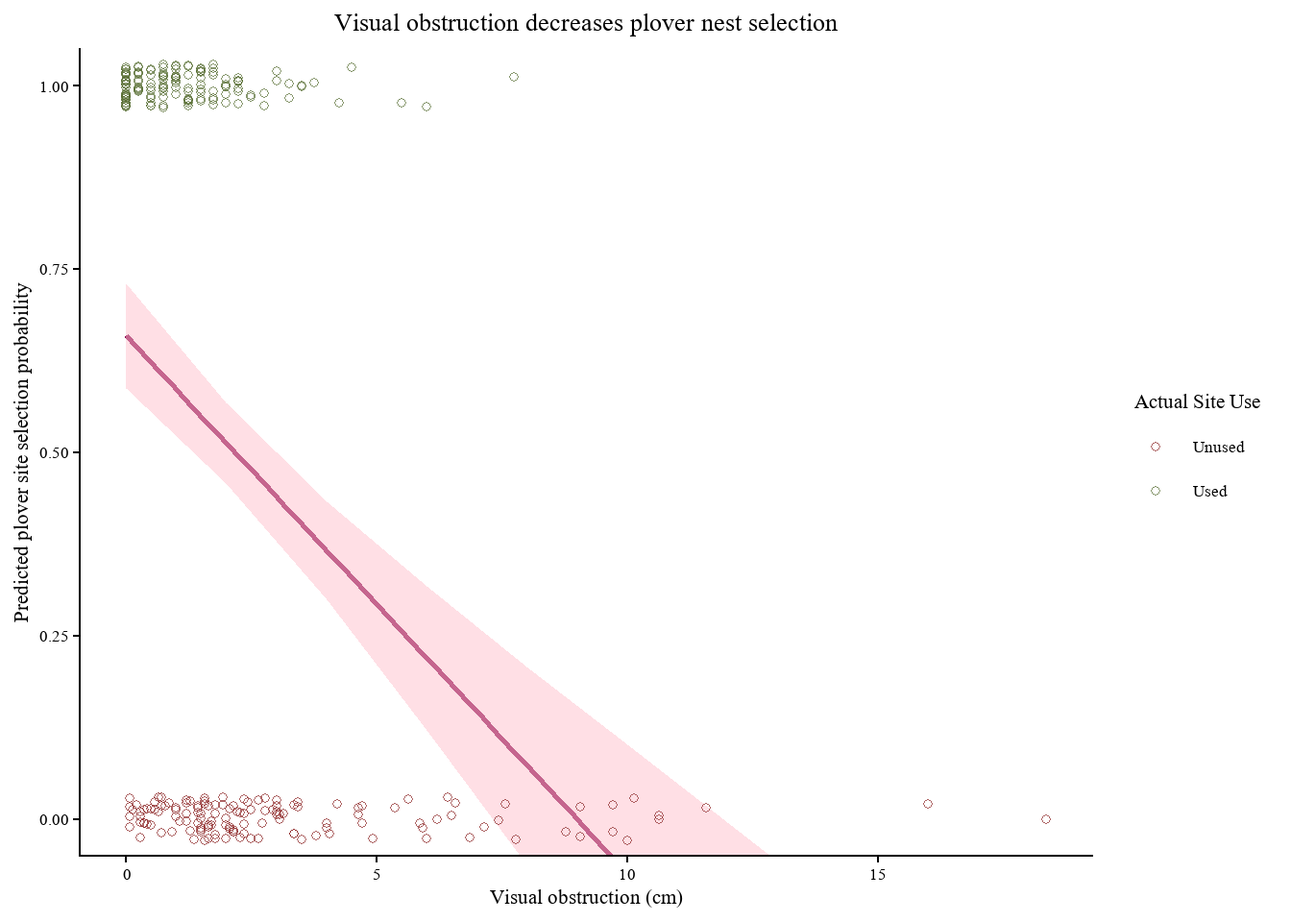
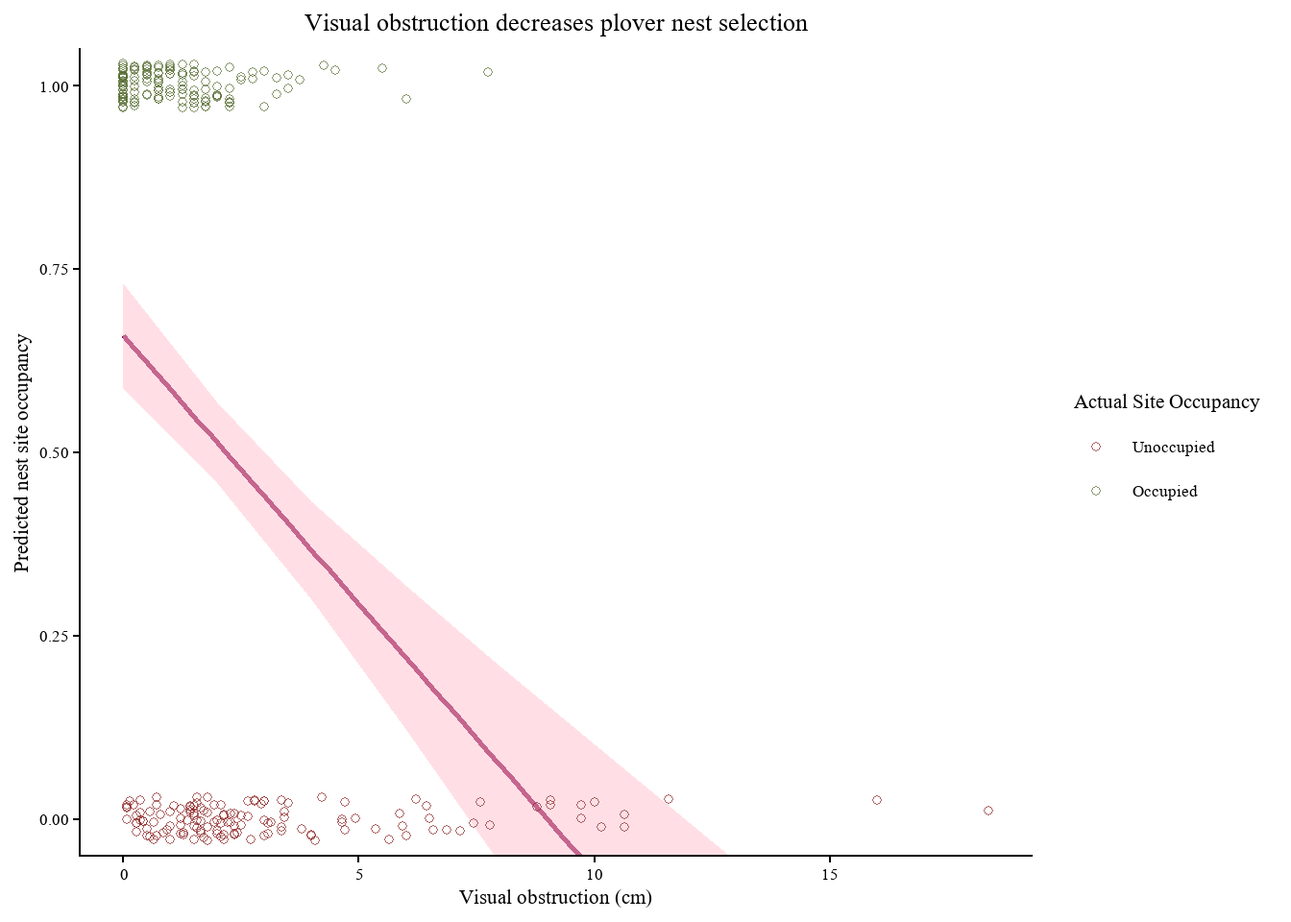
added interpretation of results

diff --git a/code/193ds-code.html b/code/193ds-code.html
@@ -72,6 +72,10 @@ pre > code.sourceCode > span > a:first-child::before { text-decoration: underlin
 <script src="193ds-code_files/libs/bootstrap/bootstrap.min.js"></script>
 <link href="193ds-code_files/libs/bootstrap/bootstrap-icons.css" rel="stylesheet">
 <link href="193ds-code_files/libs/bootstrap/bootstrap-9e3ffae467580fdb927a41352e75a2e0.min.css" rel="stylesheet" append-hash="true" id="quarto-bootstrap" data-mode="light">
+<link href="193ds-code_files/libs/tabwid-1.1.3/tabwid.css" rel="stylesheet">
+
+<script src="193ds-code_files/libs/tabwid-1.1.3/tabwid.js"></script>
+
 
   <script src="https://cdnjs.cloudflare.com/polyfill/v3/polyfill.min.js?features=es6"></script>
   <script src="https://cdn.jsdelivr.net/npm/mathjax@3/es5/tex-chtml-full.js" type="text/javascript"></script>
@@ -155,16 +159,17 @@ window.Quarto = {
 <span id="cb1-8"><a href="#cb1-8" aria-hidden="true" tabindex="-1"></a><span class="fu">library</span>(lterdatasampler) <span class="co"># dataset from LTER</span></span>
 <span id="cb1-9"><a href="#cb1-9" aria-hidden="true" tabindex="-1"></a><span class="fu">library</span>(extrafont) <span class="co"># adds more fonts</span></span>
 <span id="cb1-10"><a href="#cb1-10" aria-hidden="true" tabindex="-1"></a><span class="fu">library</span>(showtext) <span class="co"># allow changing font</span></span>
-<span id="cb1-11"><a href="#cb1-11" aria-hidden="true" tabindex="-1"></a></span>
-<span id="cb1-12"><a href="#cb1-12" aria-hidden="true" tabindex="-1"></a>kelp <span class="ot">&lt;-</span> <span class="fu">read.csv</span>(</span>
-<span id="cb1-13"><a href="#cb1-13" aria-hidden="true" tabindex="-1"></a>  <span class="fu">here</span>(<span class="st">"data"</span>,</span>
-<span id="cb1-14"><a href="#cb1-14" aria-hidden="true" tabindex="-1"></a>       <span class="st">"Annual_Kelp_All_Years_20250903.csv"</span>)</span>
-<span id="cb1-15"><a href="#cb1-15" aria-hidden="true" tabindex="-1"></a>) <span class="co"># creating kelp dataframe</span></span>
-<span id="cb1-16"><a href="#cb1-16" aria-hidden="true" tabindex="-1"></a></span>
-<span id="cb1-17"><a href="#cb1-17" aria-hidden="true" tabindex="-1"></a>mopl <span class="ot">&lt;-</span> <span class="fu">read.csv</span>(</span>
-<span id="cb1-18"><a href="#cb1-18" aria-hidden="true" tabindex="-1"></a>  <span class="fu">here</span>(<span class="st">"data"</span>,</span>
-<span id="cb1-19"><a href="#cb1-19" aria-hidden="true" tabindex="-1"></a>       <span class="st">"MOPL_nest-site_selection_Duchardt_et_al._2019.csv"</span>)</span>
-<span id="cb1-20"><a href="#cb1-20" aria-hidden="true" tabindex="-1"></a>)</span></code></pre></div><button title="Copy to Clipboard" class="code-copy-button"><i class="bi"></i></button></div>
+<span id="cb1-11"><a href="#cb1-11" aria-hidden="true" tabindex="-1"></a><span class="fu">library</span>(flextable) <span class="co"># add flextable</span></span>
+<span id="cb1-12"><a href="#cb1-12" aria-hidden="true" tabindex="-1"></a></span>
+<span id="cb1-13"><a href="#cb1-13" aria-hidden="true" tabindex="-1"></a>kelp <span class="ot">&lt;-</span> <span class="fu">read.csv</span>(</span>
+<span id="cb1-14"><a href="#cb1-14" aria-hidden="true" tabindex="-1"></a>  <span class="fu">here</span>(<span class="st">"data"</span>,</span>
+<span id="cb1-15"><a href="#cb1-15" aria-hidden="true" tabindex="-1"></a>       <span class="st">"Annual_Kelp_All_Years_20250903.csv"</span>)</span>
+<span id="cb1-16"><a href="#cb1-16" aria-hidden="true" tabindex="-1"></a>) <span class="co"># creating kelp dataframe</span></span>
+<span id="cb1-17"><a href="#cb1-17" aria-hidden="true" tabindex="-1"></a></span>
+<span id="cb1-18"><a href="#cb1-18" aria-hidden="true" tabindex="-1"></a>mopl <span class="ot">&lt;-</span> <span class="fu">read.csv</span>(</span>
+<span id="cb1-19"><a href="#cb1-19" aria-hidden="true" tabindex="-1"></a>  <span class="fu">here</span>(<span class="st">"data"</span>,</span>
+<span id="cb1-20"><a href="#cb1-20" aria-hidden="true" tabindex="-1"></a>       <span class="st">"MOPL_nest-site_selection_Duchardt_et_al._2019.csv"</span>)</span>
+<span id="cb1-21"><a href="#cb1-21" aria-hidden="true" tabindex="-1"></a>)</span></code></pre></div><button title="Copy to Clipboard" class="code-copy-button"><i class="bi"></i></button></div>
 </div>
 <p>HTML Link: <a href="https://valecarov.github.io/ENVS-193DS_winter_2026_final/code/193ds-code.html" class="uri">https://valecarov.github.io/ENVS-193DS_winter_2026_final/code/193ds-code.html</a></p>
 </section>
@@ -224,11 +229,11 @@ window.Quarto = {
 <pre><code># A tibble: 5 × 3
   site_name    year mean_fronds
   &lt;fct&gt;       &lt;int&gt;       &lt;dbl&gt;
-1 Isla Vista   2007       23.6 
-2 Isla Vista   2003        6.14
-3 Carpinteria  2004        3.67
+1 Naples       2002        3.01
+2 Carpinteria  2002        9.79
+3 Carpinteria  2018        4.21
 4 Isla Vista   2009       30.2 
-5 Carpinteria  2002        9.79</code></pre>
+5 Naples       2025        8.44</code></pre>
 </div>
 </div>
 </section>
@@ -364,7 +369,9 @@ model3  3 406.1991</code></pre>
 <h2 class="anchored" data-anchor-id="g-visualize-model-predictions">g) Visualize Model Predictions</h2>
 <div class="cell">
 <div class="code-copy-outer-scaffold"><div class="sourceCode cell-code" id="cb14"><pre class="sourceCode r code-with-copy"><code class="sourceCode r"><span id="cb14-1"><a href="#cb14-1" aria-hidden="true" tabindex="-1"></a>preds <span class="ot">&lt;-</span> <span class="fu">ggpredict</span>(model2,</span>
-<span id="cb14-2"><a href="#cb14-2" aria-hidden="true" tabindex="-1"></a>                   <span class="at">terms =</span> <span class="fu">c</span>(<span class="st">"vo_nest"</span>))</span></code></pre></div><button title="Copy to Clipboard" class="code-copy-button"><i class="bi"></i></button></div>
+<span id="cb14-2"><a href="#cb14-2" aria-hidden="true" tabindex="-1"></a>                   <span class="at">terms =</span> <span class="fu">c</span>(<span class="st">"vo_nest"</span>))</span>
+<span id="cb14-3"><a href="#cb14-3" aria-hidden="true" tabindex="-1"></a>preds_dist <span class="ot">&lt;-</span> <span class="fu">ggpredict</span>(model3,</span>
+<span id="cb14-4"><a href="#cb14-4" aria-hidden="true" tabindex="-1"></a>                        <span class="at">terms =</span> <span class="fu">c</span>(<span class="st">"edgedist"</span>))</span></code></pre></div><button title="Copy to Clipboard" class="code-copy-button"><i class="bi"></i></button></div>
 </div>
 <div class="cell">
 <div class="code-copy-outer-scaffold"><div class="sourceCode cell-code" id="cb15"><pre class="sourceCode r code-with-copy"><code class="sourceCode r"><span id="cb15-1"><a href="#cb15-1" aria-hidden="true" tabindex="-1"></a><span class="fu">ggplot</span>(<span class="at">data =</span> preds, <span class="co"># set up using predictions data frame</span></span>
@@ -390,13 +397,13 @@ model3  3 406.1991</code></pre>
 <span id="cb15-21"><a href="#cb15-21" aria-hidden="true" tabindex="-1"></a>                  <span class="at">y =</span> <span class="fu">as.numeric</span>(used_bin),<span class="co"># allow plotting of discrete variable over continuous predictions</span></span>
 <span id="cb15-22"><a href="#cb15-22" aria-hidden="true" tabindex="-1"></a>                  <span class="at">color =</span> used_bin)) <span class="sc">+</span><span class="co"># color by used vs unused site</span></span>
 <span id="cb15-23"><a href="#cb15-23" aria-hidden="true" tabindex="-1"></a>  <span class="fu">scale_color_manual</span>( </span>
-<span id="cb15-24"><a href="#cb15-24" aria-hidden="true" tabindex="-1"></a>    <span class="at">name =</span> <span class="st">"Actual Site Use"</span>,<span class="co"># name legend</span></span>
-<span id="cb15-25"><a href="#cb15-25" aria-hidden="true" tabindex="-1"></a>    <span class="at">labels =</span> <span class="fu">c</span>(<span class="st">"Unused"</span>, <span class="st">"Used"</span>),<span class="co"># change labels from 0 &amp; 1 to used and unused</span></span>
+<span id="cb15-24"><a href="#cb15-24" aria-hidden="true" tabindex="-1"></a>    <span class="at">name =</span> <span class="st">"Actual Site Occupancy"</span>,<span class="co"># name legend</span></span>
+<span id="cb15-25"><a href="#cb15-25" aria-hidden="true" tabindex="-1"></a>    <span class="at">labels =</span> <span class="fu">c</span>(<span class="st">"Unoccupied"</span>, <span class="st">"Occupied"</span>),<span class="co"># change labels from 0 &amp; 1 to unoccupied and occupied</span></span>
 <span id="cb15-26"><a href="#cb15-26" aria-hidden="true" tabindex="-1"></a>    <span class="at">values =</span> <span class="fu">c</span>(<span class="st">"brown4"</span>,<span class="st">"darkolivegreen"</span> <span class="co"># set custom colors</span></span>
 <span id="cb15-27"><a href="#cb15-27" aria-hidden="true" tabindex="-1"></a>  )) <span class="sc">+</span> </span>
 <span id="cb15-28"><a href="#cb15-28" aria-hidden="true" tabindex="-1"></a>  <span class="fu">labs</span>(<span class="at">title =</span> <span class="st">"Visual obstruction decreases plover nest selection"</span>,<span class="co"># add title</span></span>
 <span id="cb15-29"><a href="#cb15-29" aria-hidden="true" tabindex="-1"></a>       <span class="at">x =</span> <span class="st">"Visual obstruction (cm)"</span>, <span class="co"># label x axis</span></span>
-<span id="cb15-30"><a href="#cb15-30" aria-hidden="true" tabindex="-1"></a>       <span class="at">y =</span> <span class="st">"Predicted plover site selection probability"</span>) <span class="sc">+</span> <span class="co"># label y axis</span></span>
+<span id="cb15-30"><a href="#cb15-30" aria-hidden="true" tabindex="-1"></a>       <span class="at">y =</span> <span class="st">"Predicted nest site occupancy"</span>) <span class="sc">+</span> <span class="co"># label y axis</span></span>
 <span id="cb15-31"><a href="#cb15-31" aria-hidden="true" tabindex="-1"></a>  <span class="fu">theme_classic</span>() <span class="sc">+</span> <span class="co"># change theme </span></span>
 <span id="cb15-32"><a href="#cb15-32" aria-hidden="true" tabindex="-1"></a>  <span class="fu">theme</span>(<span class="at">plot.title =</span> <span class="fu">element_text</span>(<span class="at">hjust =</span> <span class="fl">0.5</span>)) <span class="sc">+</span> <span class="co"># move plot title to center</span></span>
 <span id="cb15-33"><a href="#cb15-33" aria-hidden="true" tabindex="-1"></a>  <span class="fu">theme</span>(<span class="at">text =</span> <span class="fu">element_text</span>(<span class="at">family =</span> <span class="st">"Times New Roman"</span>,</span>
@@ -412,7 +419,28 @@ model3  3 406.1991</code></pre>
 </section>
 <section id="h-caption-for-figure" class="level2">
 <h2 class="anchored" data-anchor-id="h-caption-for-figure">h) Caption for figure</h2>
-<p>Figure 1. The figure above displays the predicted probability of a prairie dog colony site being selected for use by mountain plovers based on a linear regression model. The dark purple line is the predicted probability of selection from 0 to 1 and the pink overlay represents the 95% confidence interval. The green open circles are individual used sites and the brown open circles are individual unused sites (these underlying data points are on a discrete y scale (used vs unused) and underlayed to visualize difference in visual obstruction between sites and are not represented by the predicted probability on the y axis)</p>
+<p>Figure 1. The figure above displays the predicted probability of a prairie dog colony site being selected for use by mountain plovers based on a linear regression model. The dark purple line is the predicted probability of selection from 0 to 1 and the pink overlay represents the 95% confidence interval. The green open circles are individual used sites and the brown open circles are individual unused sites (these underlying data points are on a discrete y scale (used vs unused) and underlayed to visualize difference in visual obstruction between sites and are not represented by the predicted probability on the y axis). (data obtained from: Duchardt, Courtney J; Beck, Jeffrey L; Augustine, David J (2020). Mountain plover habitat selection and nest survival in relation to weather variability and spacial attributes of black tailed prairie dog disturbance)</p>
+</section>
+<section id="i-calculate-model-predictions" class="level2">
+<h2 class="anchored" data-anchor-id="i-calculate-model-predictions">i) Calculate model predictions</h2>
+<div class="cell">
+<div class="code-copy-outer-scaffold"><div class="sourceCode cell-code" id="cb16"><pre class="sourceCode r code-with-copy"><code class="sourceCode r"><span id="cb16-1"><a href="#cb16-1" aria-hidden="true" tabindex="-1"></a>ft <span class="ot">&lt;-</span> <span class="fu">flextable</span>(<span class="fu">as.data.frame</span>(preds)) </span>
+<span id="cb16-2"><a href="#cb16-2" aria-hidden="true" tabindex="-1"></a></span>
+<span id="cb16-3"><a href="#cb16-3" aria-hidden="true" tabindex="-1"></a>ft <span class="ot">&lt;-</span> <span class="fu">colformat_double</span>(ft, <span class="co"># round digits</span></span>
+<span id="cb16-4"><a href="#cb16-4" aria-hidden="true" tabindex="-1"></a>                       <span class="at">digits =</span> <span class="dv">2</span>)</span>
+<span id="cb16-5"><a href="#cb16-5" aria-hidden="true" tabindex="-1"></a>ft <span class="ot">&lt;-</span> <span class="fu">autofit</span>(ft) <span class="co"># autofit table</span></span></code></pre></div><button title="Copy to Clipboard" class="code-copy-button"><i class="bi"></i></button></div>
+</div>
+<div class="cell">
+<div class="code-copy-outer-scaffold"><div class="sourceCode cell-code" id="cb17"><pre class="sourceCode r code-with-copy"><code class="sourceCode r"><span id="cb17-1"><a href="#cb17-1" aria-hidden="true" tabindex="-1"></a>ft</span></code></pre></div><button title="Copy to Clipboard" class="code-copy-button"><i class="bi"></i></button></div>
+<div class="cell-output-display">
+<div class="tabwid"><style>.cl-ebc4b4fc{}.cl-ebb99068{font-family:'Arial';font-size:11pt;font-weight:normal;font-style:normal;text-decoration:none;color:rgba(0, 0, 0, 1.00);background-color:transparent;}.cl-ebbda3f6{margin:0;text-align:right;border-bottom: 0 solid rgba(0, 0, 0, 1.00);border-top: 0 solid rgba(0, 0, 0, 1.00);border-left: 0 solid rgba(0, 0, 0, 1.00);border-right: 0 solid rgba(0, 0, 0, 1.00);padding-bottom:5pt;padding-top:5pt;padding-left:5pt;padding-right:5pt;line-height: 1;background-color:transparent;}.cl-ebbda40a{margin:0;text-align:left;border-bottom: 0 solid rgba(0, 0, 0, 1.00);border-top: 0 solid rgba(0, 0, 0, 1.00);border-left: 0 solid rgba(0, 0, 0, 1.00);border-right: 0 solid rgba(0, 0, 0, 1.00);padding-bottom:5pt;padding-top:5pt;padding-left:5pt;padding-right:5pt;line-height: 1;background-color:transparent;}.cl-ebbdeb22{width:0.668in;background-color:transparent;vertical-align: middle;border-bottom: 1.5pt solid rgba(102, 102, 102, 1.00);border-top: 1.5pt solid rgba(102, 102, 102, 1.00);border-left: 0 solid rgba(0, 0, 0, 1.00);border-right: 0 solid rgba(0, 0, 0, 1.00);margin-bottom:0;margin-top:0;margin-left:0;margin-right:0;}.cl-ebbdeb2c{width:0.914in;background-color:transparent;vertical-align: middle;border-bottom: 1.5pt solid rgba(102, 102, 102, 1.00);border-top: 1.5pt solid rgba(102, 102, 102, 1.00);border-left: 0 solid rgba(0, 0, 0, 1.00);border-right: 0 solid rgba(0, 0, 0, 1.00);margin-bottom:0;margin-top:0;margin-left:0;margin-right:0;}.cl-ebbdeb2d{width:0.854in;background-color:transparent;vertical-align: middle;border-bottom: 1.5pt solid rgba(102, 102, 102, 1.00);border-top: 1.5pt solid rgba(102, 102, 102, 1.00);border-left: 0 solid rgba(0, 0, 0, 1.00);border-right: 0 solid rgba(0, 0, 0, 1.00);margin-bottom:0;margin-top:0;margin-left:0;margin-right:0;}.cl-ebbdeb36{width:0.846in;background-color:transparent;vertical-align: middle;border-bottom: 1.5pt solid rgba(102, 102, 102, 1.00);border-top: 1.5pt solid rgba(102, 102, 102, 1.00);border-left: 0 solid rgba(0, 0, 0, 1.00);border-right: 0 solid rgba(0, 0, 0, 1.00);margin-bottom:0;margin-top:0;margin-left:0;margin-right:0;}.cl-ebbdeb37{width:0.905in;background-color:transparent;vertical-align: middle;border-bottom: 1.5pt solid rgba(102, 102, 102, 1.00);border-top: 1.5pt solid rgba(102, 102, 102, 1.00);border-left: 0 solid rgba(0, 0, 0, 1.00);border-right: 0 solid rgba(0, 0, 0, 1.00);margin-bottom:0;margin-top:0;margin-left:0;margin-right:0;}.cl-ebbdeb38{width:0.676in;background-color:transparent;vertical-align: middle;border-bottom: 1.5pt solid rgba(102, 102, 102, 1.00);border-top: 1.5pt solid rgba(102, 102, 102, 1.00);border-left: 0 solid rgba(0, 0, 0, 1.00);border-right: 0 solid rgba(0, 0, 0, 1.00);margin-bottom:0;margin-top:0;margin-left:0;margin-right:0;}.cl-ebbdeb40{width:0.668in;background-color:transparent;vertical-align: middle;border-bottom: 0 solid rgba(0, 0, 0, 1.00);border-top: 0 solid rgba(0, 0, 0, 1.00);border-left: 0 solid rgba(0, 0, 0, 1.00);border-right: 0 solid rgba(0, 0, 0, 1.00);margin-bottom:0;margin-top:0;margin-left:0;margin-right:0;}.cl-ebbdeb41{width:0.914in;background-color:transparent;vertical-align: middle;border-bottom: 0 solid rgba(0, 0, 0, 1.00);border-top: 0 solid rgba(0, 0, 0, 1.00);border-left: 0 solid rgba(0, 0, 0, 1.00);border-right: 0 solid rgba(0, 0, 0, 1.00);margin-bottom:0;margin-top:0;margin-left:0;margin-right:0;}.cl-ebbdeb4a{width:0.854in;background-color:transparent;vertical-align: middle;border-bottom: 0 solid rgba(0, 0, 0, 1.00);border-top: 0 solid rgba(0, 0, 0, 1.00);border-left: 0 solid rgba(0, 0, 0, 1.00);border-right: 0 solid rgba(0, 0, 0, 1.00);margin-bottom:0;margin-top:0;margin-left:0;margin-right:0;}.cl-ebbdeb4b{width:0.846in;background-color:transparent;vertical-align: middle;border-bottom: 0 solid rgba(0, 0, 0, 1.00);border-top: 0 solid rgba(0, 0, 0, 1.00);border-left: 0 solid rgba(0, 0, 0, 1.00);border-right: 0 solid rgba(0, 0, 0, 1.00);margin-bottom:0;margin-top:0;margin-left:0;margin-right:0;}.cl-ebbdeb54{width:0.905in;background-color:transparent;vertical-align: middle;border-bottom: 0 solid rgba(0, 0, 0, 1.00);border-top: 0 solid rgba(0, 0, 0, 1.00);border-left: 0 solid rgba(0, 0, 0, 1.00);border-right: 0 solid rgba(0, 0, 0, 1.00);margin-bottom:0;margin-top:0;margin-left:0;margin-right:0;}.cl-ebbdeb55{width:0.676in;background-color:transparent;vertical-align: middle;border-bottom: 0 solid rgba(0, 0, 0, 1.00);border-top: 0 solid rgba(0, 0, 0, 1.00);border-left: 0 solid rgba(0, 0, 0, 1.00);border-right: 0 solid rgba(0, 0, 0, 1.00);margin-bottom:0;margin-top:0;margin-left:0;margin-right:0;}.cl-ebbdeb56{width:0.668in;background-color:transparent;vertical-align: middle;border-bottom: 0 solid rgba(0, 0, 0, 1.00);border-top: 0 solid rgba(0, 0, 0, 1.00);border-left: 0 solid rgba(0, 0, 0, 1.00);border-right: 0 solid rgba(0, 0, 0, 1.00);margin-bottom:0;margin-top:0;margin-left:0;margin-right:0;}.cl-ebbdeb5e{width:0.914in;background-color:transparent;vertical-align: middle;border-bottom: 0 solid rgba(0, 0, 0, 1.00);border-top: 0 solid rgba(0, 0, 0, 1.00);border-left: 0 solid rgba(0, 0, 0, 1.00);border-right: 0 solid rgba(0, 0, 0, 1.00);margin-bottom:0;margin-top:0;margin-left:0;margin-right:0;}.cl-ebbdeb5f{width:0.854in;background-color:transparent;vertical-align: middle;border-bottom: 0 solid rgba(0, 0, 0, 1.00);border-top: 0 solid rgba(0, 0, 0, 1.00);border-left: 0 solid rgba(0, 0, 0, 1.00);border-right: 0 solid rgba(0, 0, 0, 1.00);margin-bottom:0;margin-top:0;margin-left:0;margin-right:0;}.cl-ebbdeb68{width:0.846in;background-color:transparent;vertical-align: middle;border-bottom: 0 solid rgba(0, 0, 0, 1.00);border-top: 0 solid rgba(0, 0, 0, 1.00);border-left: 0 solid rgba(0, 0, 0, 1.00);border-right: 0 solid rgba(0, 0, 0, 1.00);margin-bottom:0;margin-top:0;margin-left:0;margin-right:0;}.cl-ebbdeb69{width:0.905in;background-color:transparent;vertical-align: middle;border-bottom: 0 solid rgba(0, 0, 0, 1.00);border-top: 0 solid rgba(0, 0, 0, 1.00);border-left: 0 solid rgba(0, 0, 0, 1.00);border-right: 0 solid rgba(0, 0, 0, 1.00);margin-bottom:0;margin-top:0;margin-left:0;margin-right:0;}.cl-ebbdeb72{width:0.676in;background-color:transparent;vertical-align: middle;border-bottom: 0 solid rgba(0, 0, 0, 1.00);border-top: 0 solid rgba(0, 0, 0, 1.00);border-left: 0 solid rgba(0, 0, 0, 1.00);border-right: 0 solid rgba(0, 0, 0, 1.00);margin-bottom:0;margin-top:0;margin-left:0;margin-right:0;}.cl-ebbdeb73{width:0.668in;background-color:transparent;vertical-align: middle;border-bottom: 1.5pt solid rgba(102, 102, 102, 1.00);border-top: 0 solid rgba(0, 0, 0, 1.00);border-left: 0 solid rgba(0, 0, 0, 1.00);border-right: 0 solid rgba(0, 0, 0, 1.00);margin-bottom:0;margin-top:0;margin-left:0;margin-right:0;}.cl-ebbdeb74{width:0.914in;background-color:transparent;vertical-align: middle;border-bottom: 1.5pt solid rgba(102, 102, 102, 1.00);border-top: 0 solid rgba(0, 0, 0, 1.00);border-left: 0 solid rgba(0, 0, 0, 1.00);border-right: 0 solid rgba(0, 0, 0, 1.00);margin-bottom:0;margin-top:0;margin-left:0;margin-right:0;}.cl-ebbdeb7c{width:0.854in;background-color:transparent;vertical-align: middle;border-bottom: 1.5pt solid rgba(102, 102, 102, 1.00);border-top: 0 solid rgba(0, 0, 0, 1.00);border-left: 0 solid rgba(0, 0, 0, 1.00);border-right: 0 solid rgba(0, 0, 0, 1.00);margin-bottom:0;margin-top:0;margin-left:0;margin-right:0;}.cl-ebbdeb86{width:0.846in;background-color:transparent;vertical-align: middle;border-bottom: 1.5pt solid rgba(102, 102, 102, 1.00);border-top: 0 solid rgba(0, 0, 0, 1.00);border-left: 0 solid rgba(0, 0, 0, 1.00);border-right: 0 solid rgba(0, 0, 0, 1.00);margin-bottom:0;margin-top:0;margin-left:0;margin-right:0;}.cl-ebbdeb87{width:0.905in;background-color:transparent;vertical-align: middle;border-bottom: 1.5pt solid rgba(102, 102, 102, 1.00);border-top: 0 solid rgba(0, 0, 0, 1.00);border-left: 0 solid rgba(0, 0, 0, 1.00);border-right: 0 solid rgba(0, 0, 0, 1.00);margin-bottom:0;margin-top:0;margin-left:0;margin-right:0;}.cl-ebbdeb88{width:0.676in;background-color:transparent;vertical-align: middle;border-bottom: 1.5pt solid rgba(102, 102, 102, 1.00);border-top: 0 solid rgba(0, 0, 0, 1.00);border-left: 0 solid rgba(0, 0, 0, 1.00);border-right: 0 solid rgba(0, 0, 0, 1.00);margin-bottom:0;margin-top:0;margin-left:0;margin-right:0;}</style><table data-quarto-disable-processing="true" class="cl-ebc4b4fc"><thead><tr style="overflow-wrap:break-word;"><th class="cl-ebbdeb22"><p class="cl-ebbda3f6"><span class="cl-ebb99068">x</span></p></th><th class="cl-ebbdeb2c"><p class="cl-ebbda3f6"><span class="cl-ebb99068">predicted</span></p></th><th class="cl-ebbdeb2d"><p class="cl-ebbda3f6"><span class="cl-ebb99068">std.error</span></p></th><th class="cl-ebbdeb36"><p class="cl-ebbda3f6"><span class="cl-ebb99068">conf.low</span></p></th><th class="cl-ebbdeb37"><p class="cl-ebbda3f6"><span class="cl-ebb99068">conf.high</span></p></th><th class="cl-ebbdeb38"><p class="cl-ebbda40a"><span class="cl-ebb99068">group</span></p></th></tr></thead><tbody><tr style="overflow-wrap:break-word;"><td class="cl-ebbdeb40"><p class="cl-ebbda3f6"><span class="cl-ebb99068">0.00</span></p></td><td class="cl-ebbdeb41"><p class="cl-ebbda3f6"><span class="cl-ebb99068">0.66</span></p></td><td class="cl-ebbdeb4a"><p class="cl-ebbda3f6"><span class="cl-ebb99068">0.04</span></p></td><td class="cl-ebbdeb4b"><p class="cl-ebbda3f6"><span class="cl-ebb99068">0.59</span></p></td><td class="cl-ebbdeb54"><p class="cl-ebbda3f6"><span class="cl-ebb99068">0.73</span></p></td><td class="cl-ebbdeb55"><p class="cl-ebbda40a"><span class="cl-ebb99068">1</span></p></td></tr><tr style="overflow-wrap:break-word;"><td class="cl-ebbdeb40"><p class="cl-ebbda3f6"><span class="cl-ebb99068">2.00</span></p></td><td class="cl-ebbdeb41"><p class="cl-ebbda3f6"><span class="cl-ebb99068">0.51</span></p></td><td class="cl-ebbdeb4a"><p class="cl-ebbda3f6"><span class="cl-ebb99068">0.03</span></p></td><td class="cl-ebbdeb4b"><p class="cl-ebbda3f6"><span class="cl-ebb99068">0.46</span></p></td><td class="cl-ebbdeb54"><p class="cl-ebbda3f6"><span class="cl-ebb99068">0.57</span></p></td><td class="cl-ebbdeb55"><p class="cl-ebbda40a"><span class="cl-ebb99068">1</span></p></td></tr><tr style="overflow-wrap:break-word;"><td class="cl-ebbdeb40"><p class="cl-ebbda3f6"><span class="cl-ebb99068">4.00</span></p></td><td class="cl-ebbdeb41"><p class="cl-ebbda3f6"><span class="cl-ebb99068">0.37</span></p></td><td class="cl-ebbdeb4a"><p class="cl-ebbda3f6"><span class="cl-ebb99068">0.03</span></p></td><td class="cl-ebbdeb4b"><p class="cl-ebbda3f6"><span class="cl-ebb99068">0.30</span></p></td><td class="cl-ebbdeb54"><p class="cl-ebbda3f6"><span class="cl-ebb99068">0.43</span></p></td><td class="cl-ebbdeb55"><p class="cl-ebbda40a"><span class="cl-ebb99068">1</span></p></td></tr><tr style="overflow-wrap:break-word;"><td class="cl-ebbdeb40"><p class="cl-ebbda3f6"><span class="cl-ebb99068">6.00</span></p></td><td class="cl-ebbdeb41"><p class="cl-ebbda3f6"><span class="cl-ebb99068">0.22</span></p></td><td class="cl-ebbdeb4a"><p class="cl-ebbda3f6"><span class="cl-ebb99068">0.05</span></p></td><td class="cl-ebbdeb4b"><p class="cl-ebbda3f6"><span class="cl-ebb99068">0.12</span></p></td><td class="cl-ebbdeb54"><p class="cl-ebbda3f6"><span class="cl-ebb99068">0.32</span></p></td><td class="cl-ebbdeb55"><p class="cl-ebbda40a"><span class="cl-ebb99068">1</span></p></td></tr><tr style="overflow-wrap:break-word;"><td class="cl-ebbdeb56"><p class="cl-ebbda3f6"><span class="cl-ebb99068">8.00</span></p></td><td class="cl-ebbdeb5e"><p class="cl-ebbda3f6"><span class="cl-ebb99068">0.07</span></p></td><td class="cl-ebbdeb5f"><p class="cl-ebbda3f6"><span class="cl-ebb99068">0.07</span></p></td><td class="cl-ebbdeb68"><p class="cl-ebbda3f6"><span class="cl-ebb99068">-0.06</span></p></td><td class="cl-ebbdeb69"><p class="cl-ebbda3f6"><span class="cl-ebb99068">0.21</span></p></td><td class="cl-ebbdeb72"><p class="cl-ebbda40a"><span class="cl-ebb99068">1</span></p></td></tr><tr style="overflow-wrap:break-word;"><td class="cl-ebbdeb56"><p class="cl-ebbda3f6"><span class="cl-ebb99068">10.00</span></p></td><td class="cl-ebbdeb5e"><p class="cl-ebbda3f6"><span class="cl-ebb99068">-0.07</span></p></td><td class="cl-ebbdeb5f"><p class="cl-ebbda3f6"><span class="cl-ebb99068">0.09</span></p></td><td class="cl-ebbdeb68"><p class="cl-ebbda3f6"><span class="cl-ebb99068">-0.25</span></p></td><td class="cl-ebbdeb69"><p class="cl-ebbda3f6"><span class="cl-ebb99068">0.10</span></p></td><td class="cl-ebbdeb72"><p class="cl-ebbda40a"><span class="cl-ebb99068">1</span></p></td></tr><tr style="overflow-wrap:break-word;"><td class="cl-ebbdeb56"><p class="cl-ebbda3f6"><span class="cl-ebb99068">12.00</span></p></td><td class="cl-ebbdeb5e"><p class="cl-ebbda3f6"><span class="cl-ebb99068">-0.22</span></p></td><td class="cl-ebbdeb5f"><p class="cl-ebbda3f6"><span class="cl-ebb99068">0.11</span></p></td><td class="cl-ebbdeb68"><p class="cl-ebbda3f6"><span class="cl-ebb99068">-0.44</span></p></td><td class="cl-ebbdeb69"><p class="cl-ebbda3f6"><span class="cl-ebb99068">-0.00</span></p></td><td class="cl-ebbdeb72"><p class="cl-ebbda40a"><span class="cl-ebb99068">1</span></p></td></tr><tr style="overflow-wrap:break-word;"><td class="cl-ebbdeb40"><p class="cl-ebbda3f6"><span class="cl-ebb99068">14.00</span></p></td><td class="cl-ebbdeb41"><p class="cl-ebbda3f6"><span class="cl-ebb99068">-0.37</span></p></td><td class="cl-ebbdeb4a"><p class="cl-ebbda3f6"><span class="cl-ebb99068">0.13</span></p></td><td class="cl-ebbdeb4b"><p class="cl-ebbda3f6"><span class="cl-ebb99068">-0.62</span></p></td><td class="cl-ebbdeb54"><p class="cl-ebbda3f6"><span class="cl-ebb99068">-0.11</span></p></td><td class="cl-ebbdeb55"><p class="cl-ebbda40a"><span class="cl-ebb99068">1</span></p></td></tr><tr style="overflow-wrap:break-word;"><td class="cl-ebbdeb56"><p class="cl-ebbda3f6"><span class="cl-ebb99068">16.00</span></p></td><td class="cl-ebbdeb5e"><p class="cl-ebbda3f6"><span class="cl-ebb99068">-0.51</span></p></td><td class="cl-ebbdeb5f"><p class="cl-ebbda3f6"><span class="cl-ebb99068">0.15</span></p></td><td class="cl-ebbdeb68"><p class="cl-ebbda3f6"><span class="cl-ebb99068">-0.81</span></p></td><td class="cl-ebbdeb69"><p class="cl-ebbda3f6"><span class="cl-ebb99068">-0.22</span></p></td><td class="cl-ebbdeb72"><p class="cl-ebbda40a"><span class="cl-ebb99068">1</span></p></td></tr><tr style="overflow-wrap:break-word;"><td class="cl-ebbdeb73"><p class="cl-ebbda3f6"><span class="cl-ebb99068">18.00</span></p></td><td class="cl-ebbdeb74"><p class="cl-ebbda3f6"><span class="cl-ebb99068">-0.66</span></p></td><td class="cl-ebbdeb7c"><p class="cl-ebbda3f6"><span class="cl-ebb99068">0.17</span></p></td><td class="cl-ebbdeb86"><p class="cl-ebbda3f6"><span class="cl-ebb99068">-1.00</span></p></td><td class="cl-ebbdeb87"><p class="cl-ebbda3f6"><span class="cl-ebb99068">-0.32</span></p></td><td class="cl-ebbdeb88"><p class="cl-ebbda40a"><span class="cl-ebb99068">1</span></p></td></tr></tbody></table></div>
+</div>
+</div>
+<p>According to the model, the predicted probability of Mountain Plover nest site occupancy at 0 on the index of visual obstruction is 0.66</p>
+</section>
+<section id="j-interpret-results" class="level2">
+<h2 class="anchored" data-anchor-id="j-interpret-results">j) Interpret results</h2>
+<p>When there is no visual obstruction, the probability of nest site occupancy is 0.66. For each 1 cm increase in visual obstruction, the probability of nest site occupancy decreases by 0.07 +/- 0.01 (linear model: F(1,274) = 46.42, p &lt; 0.001, <span class="math inline">\(\alpha\)</span> = 0.05, adjusted R^2 = 0.14). There is not sufficient evidence to suggest any relationship between distance from prairie colony edge and probability of nest site occupancy (linear model: F(1,274) = 0.5227, p = 0.47, <span class="math inline">\(\alpha\)</span> = 0.05, adjusted R^2 = -0.0017). The relationship between visual obscurity and Mountain Plover nest site occupancy could be explained by the necessity to avoid predation. When visual obscurity is high, it is difficult to see predators from a distance. Having the clearest view of your surroundings increases survivability, making sites with the best visibility more desirable for Mountain Plovers.</p>
 </section>
 </section>
 

diff --git a/code/193ds-code_files/libs/tabwid-1.1.3/tabwid.js b/code/193ds-code_files/libs/tabwid-1.1.3/tabwid.js
@@ -1,0 +1,31 @@
+document.addEventListener("DOMContentLoaded", function(event) {
+  var els = document.querySelectorAll(".tabwid");
+  var tabwid_link = document.querySelector('link[href*="tabwid.css"]')
+  if (tabwid_link === null) {
+    const tabwid_styles = document.evaluate("//style[contains(., 'tabwid')]", document, null, XPathResult.ANY_TYPE, null );
+    tabwid_link = tabwid_styles.iterateNext();
+  }
+
+  Array.prototype.forEach.call(els, function(template) {
+      const dest = document.createElement("div");
+      template.parentNode.insertBefore(dest, template.nextSibling)
+      dest.setAttribute("class", "flextable-shadow-host");
+      const fantome = dest.attachShadow({mode: 'open'});
+      fantome.appendChild(template);
+      if (tabwid_link !== null) {
+        fantome.appendChild(tabwid_link.cloneNode(true));
+      }
+  });
+
+  const shadowHosts = document.querySelectorAll('.flextable-shadow-host:not(:has(div > table.no-shadow-dom))');
+  shadowHosts.forEach(host => {
+    if (host.shadowRoot) {
+      const spanElements = host.shadowRoot.querySelector('div > table > caption > span[id]');
+      if (spanElements) {
+        const id = spanElements.getAttribute("id");
+        host.setAttribute("id", id);
+      }
+    }
+  });
+
+});

diff --git a/code/193ds-code_files/libs/tabwid-1.1.3/tabwid.css b/code/193ds-code_files/libs/tabwid-1.1.3/tabwid.css
@@ -1,0 +1,42 @@
+.tabwid {
+  font-size: initial;
+  padding-bottom: 1em;
+}
+
+.tabwid table{
+  border-spacing:0px !important;
+  border-collapse:collapse;
+  line-height:1;
+  margin-left:auto;
+  margin-right:auto;
+  border-width: 0;
+  border-color: transparent;
+  caption-side: top;
+}
+.tabwid-caption-bottom table{
+  caption-side: bottom;
+}
+.tabwid_left table{
+  margin-left:0;
+}
+.tabwid_right table{
+  margin-right:0;
+}
+.tabwid td, .tabwid th {
+    padding: 0;
+}
+.tabwid a {
+  text-decoration: none;
+}
+.tabwid thead {
+    background-color: transparent;
+}
+.tabwid tfoot {
+    background-color: transparent;
+}
+.tabwid table tr {
+background-color: transparent;
+}
+.katex-display {
+    margin: 0 0 !important;
+}
